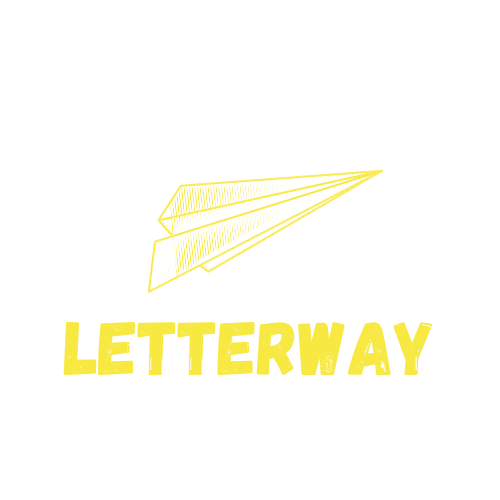
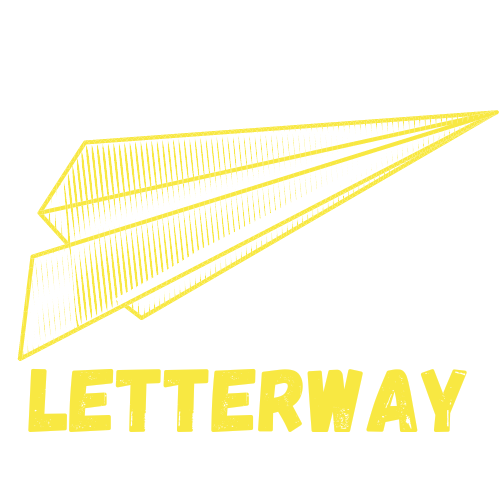
restyled header

Changed region(s): [[0.03, 0.21, 1.0, 0.87]]

diff --git a/src/components/Header.js b/src/components/Header.js
@@ -5,7 +5,7 @@ import styled from "styled-components"
 
 const Header = () => {
     const HeaderUl = styled.ul`
-    padding: 7rem;
+    padding-top: 4rem;
     color: white;
     `
     const HeaderLi= styled.li`
@@ -21,7 +21,7 @@ const Header = () => {
     `
     return (
         <header>
-            <h1><Link to="/"><img alt="letterwatlogo" src={logo} width={250} ></img></Link></h1>
+            <h1><Link to="/"><img alt="letterwatlogo" src={logo} width={150} ></img></Link></h1>
             <StyledNav>
 
                 <HeaderUl>

diff --git a/src/features/styles/GlobalStyles.js b/src/features/styles/GlobalStyles.js
@@ -35,3 +35,4 @@ border-radius: 10px;
 max-width: 40vw;
 box-shadow: 10px 5px 5px #333333;
 `
+
